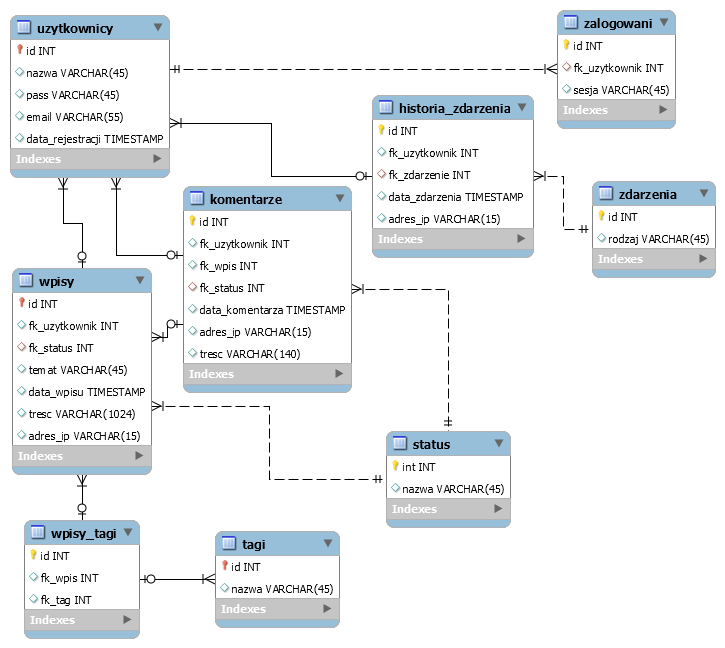
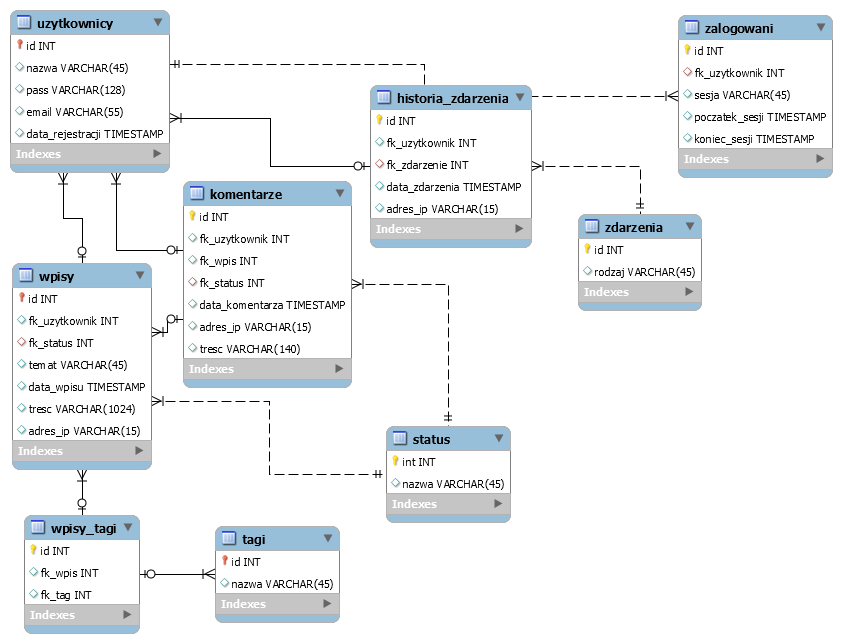
Poprawiona baza i zalążki funkcji kontrolera

diff --git a/db.php b/db.php
@@ -1,9 +1,19 @@
 <?php
 function connect(){
-	$db = @new mysqli("localhost","root","blog");
+	$db = @new mysqli("localhost","root","","blog");
 	if(mysqli_connect_errno()!=0){
 		die("Błąd połączenia z bazą danych.");
 	}
 	return $db;
+}
+function register($username,$password,$email){
+	$password=hash("sha512",'31337|'.$password);
+	$date=date("Y-m-d H:i:s");	
+	$result=$db->query("insert into uzytkownicy(nazwa,pass,email,data_rejestracji) values('$username','$password','$email','$date');");
+	if(!$result){
+		echo $db->error();
+	}else{
+		echo "Rejestracja zakończona pomyślnie";
+	}
 }
 ?>

diff --git a/login.php b/login.php
@@ -1,0 +1,12 @@
+<?php
+require_once "db.php";
+
+$db=connect();
+$result=$db->query("select * from uzytkownicy");
+while($row=$result->fetch_assoc()){
+	echo $row['nazwa']."<br/>";
+	echo $row['pass']."<br/>";
+	echo $row['email']."<br/>";
+	echo $row['data_rejestracji'];
+}
+$db->close();
